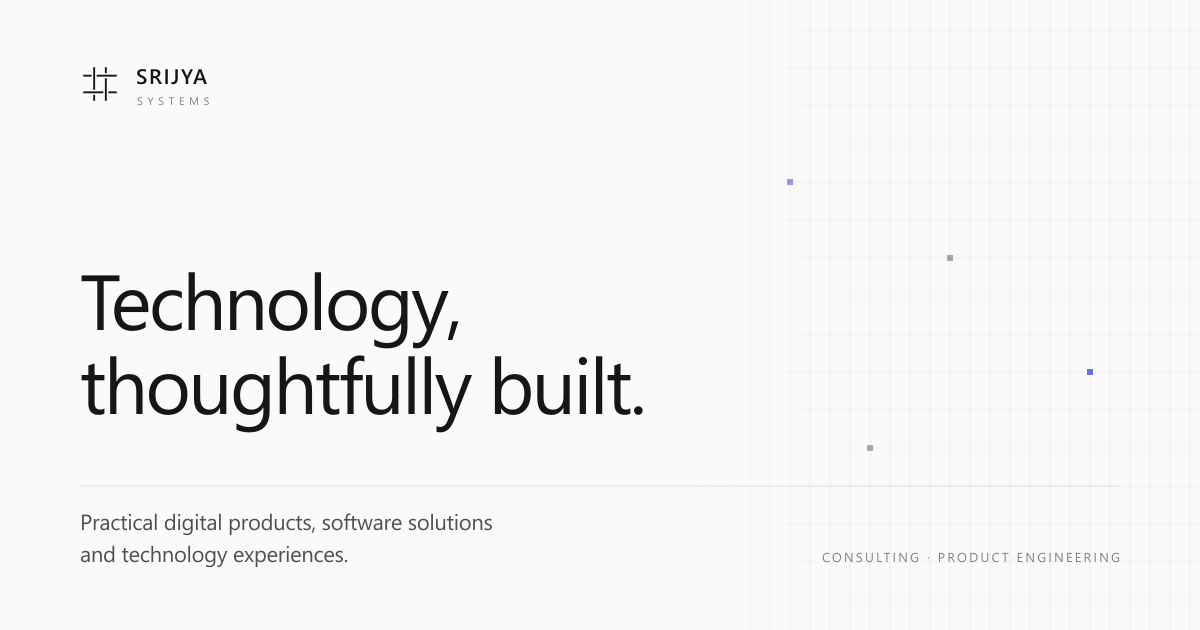
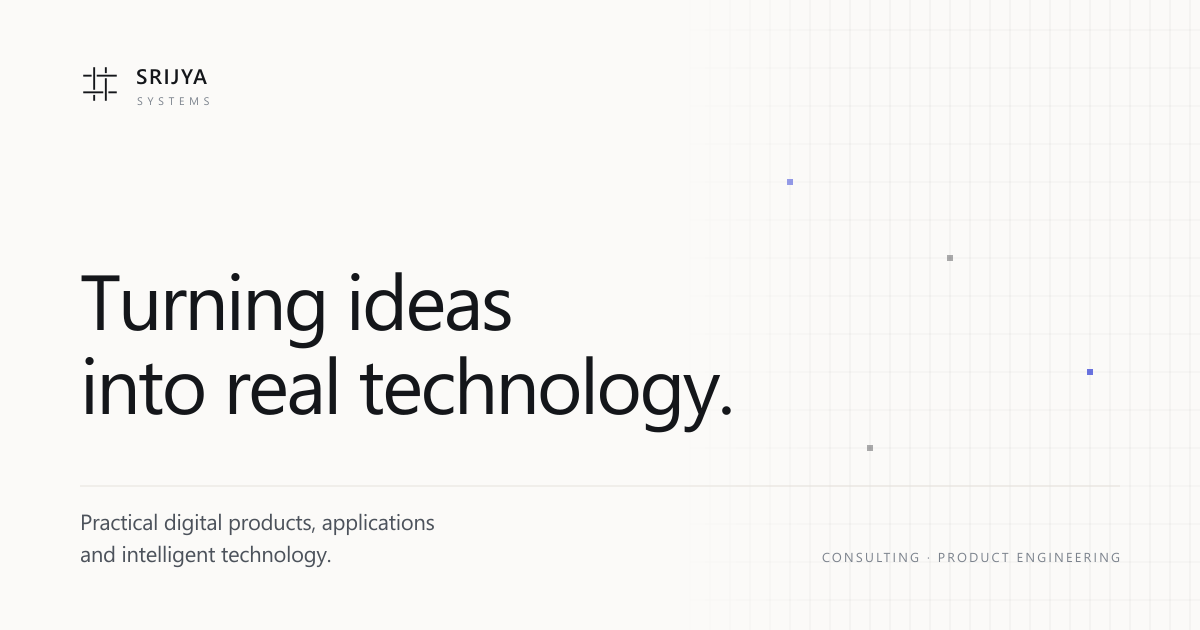
feat(site): lead with the gap between an idea and a product
The old hero said "From complex ideas to useful technology" and the section
under it said technology is most valuable when it solves something real. Both
true, neither committing to what the company is actually for.

The positioning is now the thing itself — turning ideas into real, working
technology — and the section under the hero names the gap rather than admiring
the problem: an idea is only the beginning, and clarity, design and engineering
are the distance between it and a product.

CTAs follow: "Explore what we build" and "Have an idea? Let's talk" both say
what happens next, where "Explore our capabilities" and "Talk to us" asked the
reader to work it out.

The pillar strip drops to four labels naming areas rather than categories. The
canonical list is six now, and six labels on a hairline stop scanning and start
being a table.

Metadata, the Organization JSON-LD and the OG artwork carry the same line, so
the tab title, the search result, the shared link and the page cannot disagree
about what this company does.

Changed region(s): [[0.0617, 0.4222, 0.6167, 0.6937], [0.0925, 0.8746, 0.2775, 0.9048], [0.2775, 0.8143, 0.4317, 0.8444]]

diff --git a/techloom/src/components/sections/Positioning.tsx b/techloom/src/components/sections/Positioning.tsx
@@ -3,9 +3,11 @@ import { ArrowRight } from '@/components/Icons';
 import { revealProps } from '@/lib/reveal';
 
 /**
- * The company introduction. Deliberately short, and deliberately makes no claim
- * about years, clients, offices or scale — the section earns its place by saying
- * what the company is for, not how big it is.
+ * The section directly under the hero, and the one that has to earn the scroll.
+ *
+ * It makes no claim about years, clients, offices or scale. Its whole job is to
+ * name the gap the company exists to close — the distance between having an idea
+ * and having a product — because that gap is the reason anyone reads further.
  */
 export default function Positioning() {
   return (
@@ -13,24 +15,25 @@ export default function Positioning() {
       <div className="container-tl">
         <div className="grid gap-y-10 md:grid-cols-12 md:gap-x-10">
           <div className="md:col-span-3" {...revealProps()}>
-            <p className="label">About</p>
+            <p className="label">The work</p>
           </div>
 
           <div className="md:col-span-5" {...revealProps(60)}>
             <h2 id="positioning-heading" className="display-3 max-w-[18ch]">
-              Technology is most valuable when it solves something real.
+              An idea is only the beginning.
             </h2>
           </div>
 
           <div className="md:col-span-4" {...revealProps(120)}>
             <p className="body-text">
-              Srijya brings together technology, product thinking and practical
-              problem solving to create digital solutions designed around real needs.
+              Good ideas need clarity, structure, design and engineering before they become
+              useful technology. Srijya works across that whole distance — from understanding
+              the problem to designing, building, launching and evolving the product.
             </p>
             <p className="body-text mt-5">
-              We work across two sides of the same discipline: advising on technology decisions,
-              and building the software that follows from them. Sadhya, our own learning platform,
-              is where that approach is applied to a product we run ourselves.
+              Most of what decides whether a product is any good happens before the interesting
+              engineering starts: what problem is being solved, for whom, and what is deliberately
+              left out of the first version.
             </p>
             <Link to="/about" className="link-arrow mt-8">
               More about the company

diff --git a/techloom/index.html b/techloom/index.html
@@ -8,29 +8,29 @@
     <meta name="theme-color" content="#fbfaf8" media="(prefers-color-scheme: light)" />
     <meta name="theme-color" content="#0d0e11" media="(prefers-color-scheme: dark)" />
 
-    <title>Srijya | Technology &amp; Digital Solutions</title>
+    <title>Srijya | Technology &amp; Product Engineering</title>
     <meta
       name="description"
-      content="Srijya builds practical digital products, software solutions and technology experiences."
+      content="Srijya is a technology and product engineering company turning complex ideas into practical digital products, applications and intelligent technology experiences."
     />
     <meta name="robots" content="index, follow" />
 
     <meta property="og:type" content="website" />
     <meta property="og:site_name" content="Srijya" />
-    <meta property="og:title" content="Srijya | Technology &amp; Digital Solutions" />
+    <meta property="og:title" content="Srijya | Technology &amp; Product Engineering" />
     <meta
       property="og:description"
-      content="Srijya builds practical digital products, software solutions and technology experiences."
+      content="Srijya is a technology and product engineering company turning complex ideas into practical digital products, applications and intelligent technology experiences."
     />
     <meta property="og:image:width" content="1200" />
     <meta property="og:image:height" content="630" />
-    <meta property="og:image:alt" content="Srijya — technology, thoughtfully built." />
+    <meta property="og:image:alt" content="Srijya — turning ideas into real technology." />
     <meta property="og:locale" content="en_IN" />
     <meta name="twitter:card" content="summary_large_image" />
-    <meta name="twitter:title" content="Srijya | Technology &amp; Digital Solutions" />
+    <meta name="twitter:title" content="Srijya | Technology &amp; Product Engineering" />
     <meta
       name="twitter:description"
-      content="Srijya builds practical digital products, software solutions and technology experiences."
+      content="Srijya is a technology and product engineering company turning complex ideas into practical digital products, applications and intelligent technology experiences."
     />
 
     <!--

diff --git a/techloom/src/components/sections/Hero.tsx b/techloom/src/components/sections/Hero.tsx
@@ -4,12 +4,16 @@ import LoomField from '@/components/LoomField';
 import { revealProps } from '@/lib/reveal';
 import { COMPANY } from '@/site.config';
 
-/** The four areas the company works across. Read as positioning, not as a menu. */
+/**
+ * The four areas the company works across. Read as positioning, not as a menu —
+ * the full list lives in src/content/capabilities.ts, and this is deliberately
+ * shorter than it. Four labels on a hairline scan; six become a table.
+ */
 const PILLARS = [
-  'Technology consulting',
-  'Digital product engineering',
-  'Software solutions',
-  'Emerging technology',
+  'Product engineering',
+  'Software development',
+  'Applied AI',
+  'Product design',
 ];
 
 export default function Hero() {
@@ -27,12 +31,13 @@ export default function Hero() {
               className="display-1 mt-6 max-w-[15ch]"
               {...revealProps(60)}
             >
-              From complex ideas to useful technology.
+              From ideas to real technology.
             </h1>
 
             <p className="lede mt-8 max-w-[54ch]" {...revealProps(120)}>
-              Srijya is a technology and digital solutions company focused on
-              building practical software, digital products and technology experiences.
+              Srijya is a technology and product engineering company helping
+              organisations turn complex ideas into practical digital products,
+              applications and intelligent technology experiences.
             </p>
 
             {/* Content-width, left-aligned — a full-bleed pair of buttons on a phone
@@ -43,11 +48,11 @@ export default function Hero() {
               {...revealProps(180)}
             >
               <Link to="/capabilities" className="btn btn-primary">
-                Explore our capabilities
+                Explore what we build
                 <ArrowRight />
               </Link>
               <Link to="/contact" className="btn btn-ghost">
-                Talk to us
+                Have an idea? Let&rsquo;s talk
                 <ArrowRight />
               </Link>
             </div>

diff --git a/techloom/src/components/sections/EngineeringPrinciples.tsx b/techloom/src/components/sections/EngineeringPrinciples.tsx
@@ -1,0 +1,42 @@
+import { ENGINEERING_QUALITIES } from '@/content/engineering';
+import { revealProps } from '@/lib/reveal';
+
+/**
+ * The four properties the work is measured by, set as an editorial list.
+ *
+ * These are properties of the *result*, not virtues the company claims to have —
+ * every one of them can be checked against a system after it ships, which is the
+ * only place any of them can honestly be judged. The sentence completes across
+ * the heading and the list, so it reads as one statement rather than four cards.
+ */
+export default function EngineeringPrinciples() {
+  return (
+    <section className="section" aria-labelledby="engineering-heading">
+      <div className="container-tl">
+        <div className="grid gap-y-10 md:grid-cols-12 md:gap-x-10">
+          <div className="md:col-span-4" {...revealProps()}>
+            <p className="label">Engineering</p>
+            <h2 id="engineering-heading" className="display-3 mt-6 max-w-[12ch]">
+              Good technology should be&hellip;
+            </h2>
+          </div>
+
+          <div className="md:col-span-8">
+            <dl className="border-t border-line">
+              {ENGINEERING_QUALITIES.map((quality, index) => (
+                <div
+                  key={quality.title}
+                  className="grid gap-y-2 border-b border-line py-7 sm:grid-cols-[minmax(0,12rem)_1fr] sm:gap-x-10"
+                  {...revealProps(index * 80)}
+                >
+                  <dt className="heading-4 text-ink">{quality.title}</dt>
+                  <dd className="body-text max-w-[56ch] sm:pt-1">{quality.body}</dd>
+                </div>
+              ))}
+            </dl>
+          </div>
+        </div>
+      </div>
+    </section>
+  );
+}

diff --git a/techloom/src/components/sections/TechnologyPurpose.tsx b/techloom/src/components/sections/TechnologyPurpose.tsx
@@ -1,0 +1,42 @@
+import SectionHeading from '@/components/SectionHeading';
+import { TECHNOLOGY_AREAS } from '@/content/technology';
+import { revealProps } from '@/lib/reveal';
+
+/**
+ * Technology, grouped by purpose rather than displayed as a logo wall.
+ *
+ * A grid of framework marks proves only that the logos were downloadable. It
+ * tells a reader nothing about whether this company could build their product,
+ * which is the single question the section exists to answer. So: areas of work,
+ * on hairlines, no icons, no cards.
+ */
+export default function TechnologyPurpose() {
+  return (
+    <section className="section" aria-labelledby="technology-heading">
+      <div className="container-tl">
+        <SectionHeading
+          id="technology-heading"
+          label="Technology"
+          title="Technology with purpose."
+          lede="Chosen for what a product needs, not for what is currently interesting. Each area below is in use in something already running."
+        />
+
+        <ul className="mt-14 border-t border-line md:mt-20">
+          {TECHNOLOGY_AREAS.map((area, index) => (
+            <li
+              key={area.title}
+              className="grid gap-y-3 border-b border-line py-7 md:grid-cols-12 md:gap-x-10 md:py-8"
+              {...revealProps(index * 70)}
+            >
+              <div className="flex items-baseline gap-4 md:col-span-4">
+                <span className="index-num">{area.index}</span>
+                <h3 className="heading-4 text-ink">{area.title}</h3>
+              </div>
+              <p className="body-text md:col-span-8 md:max-w-[60ch]">{area.body}</p>
+            </li>
+          ))}
+        </ul>
+      </div>
+    </section>
+  );
+}

diff --git a/techloom/src/site.config.ts b/techloom/src/site.config.ts
@@ -51,15 +51,15 @@ export const COMPANY = {
    */
   legalEntity: 'TechLoom Innovations',
 
-  tagline: 'Technology, thoughtfully built.',
+  tagline: 'Turning ideas into real technology.',
 
   /** One line, used for meta descriptions and any place that needs a summary. */
   descriptor:
-    'Srijya builds practical digital products, software solutions and technology experiences.',
+    'Srijya is a technology and product engineering company turning complex ideas into practical digital products, applications and intelligent technology experiences.',
 
   /** The longer positioning line, used on the About page and in structured data. */
   positioning:
-    'A technology and digital solutions company helping organisations turn complex ideas into practical digital products and technology solutions.',
+    'A technology and product engineering company helping organisations move from an idea to a real, working product — through the clarity, design and engineering in between.',
 
   /**
    * Public business registration.

diff --git a/techloom/vite.config.ts b/techloom/vite.config.ts
@@ -46,7 +46,7 @@ function seoMeta(siteUrl: string): Plugin {
           url: `${origin}/`,
           logo: `${origin}/icon-512.png`,
           description:
-            'Srijya is a technology and digital solutions company building practical software, digital products and technology experiences.',
+            'Srijya is a technology and product engineering company turning complex ideas into practical digital products, applications and intelligent technology experiences.',
           foundingDate: '2024-06-30',
           address: { '@type': 'PostalAddress', addressCountry: 'IN' },
           owns: {
